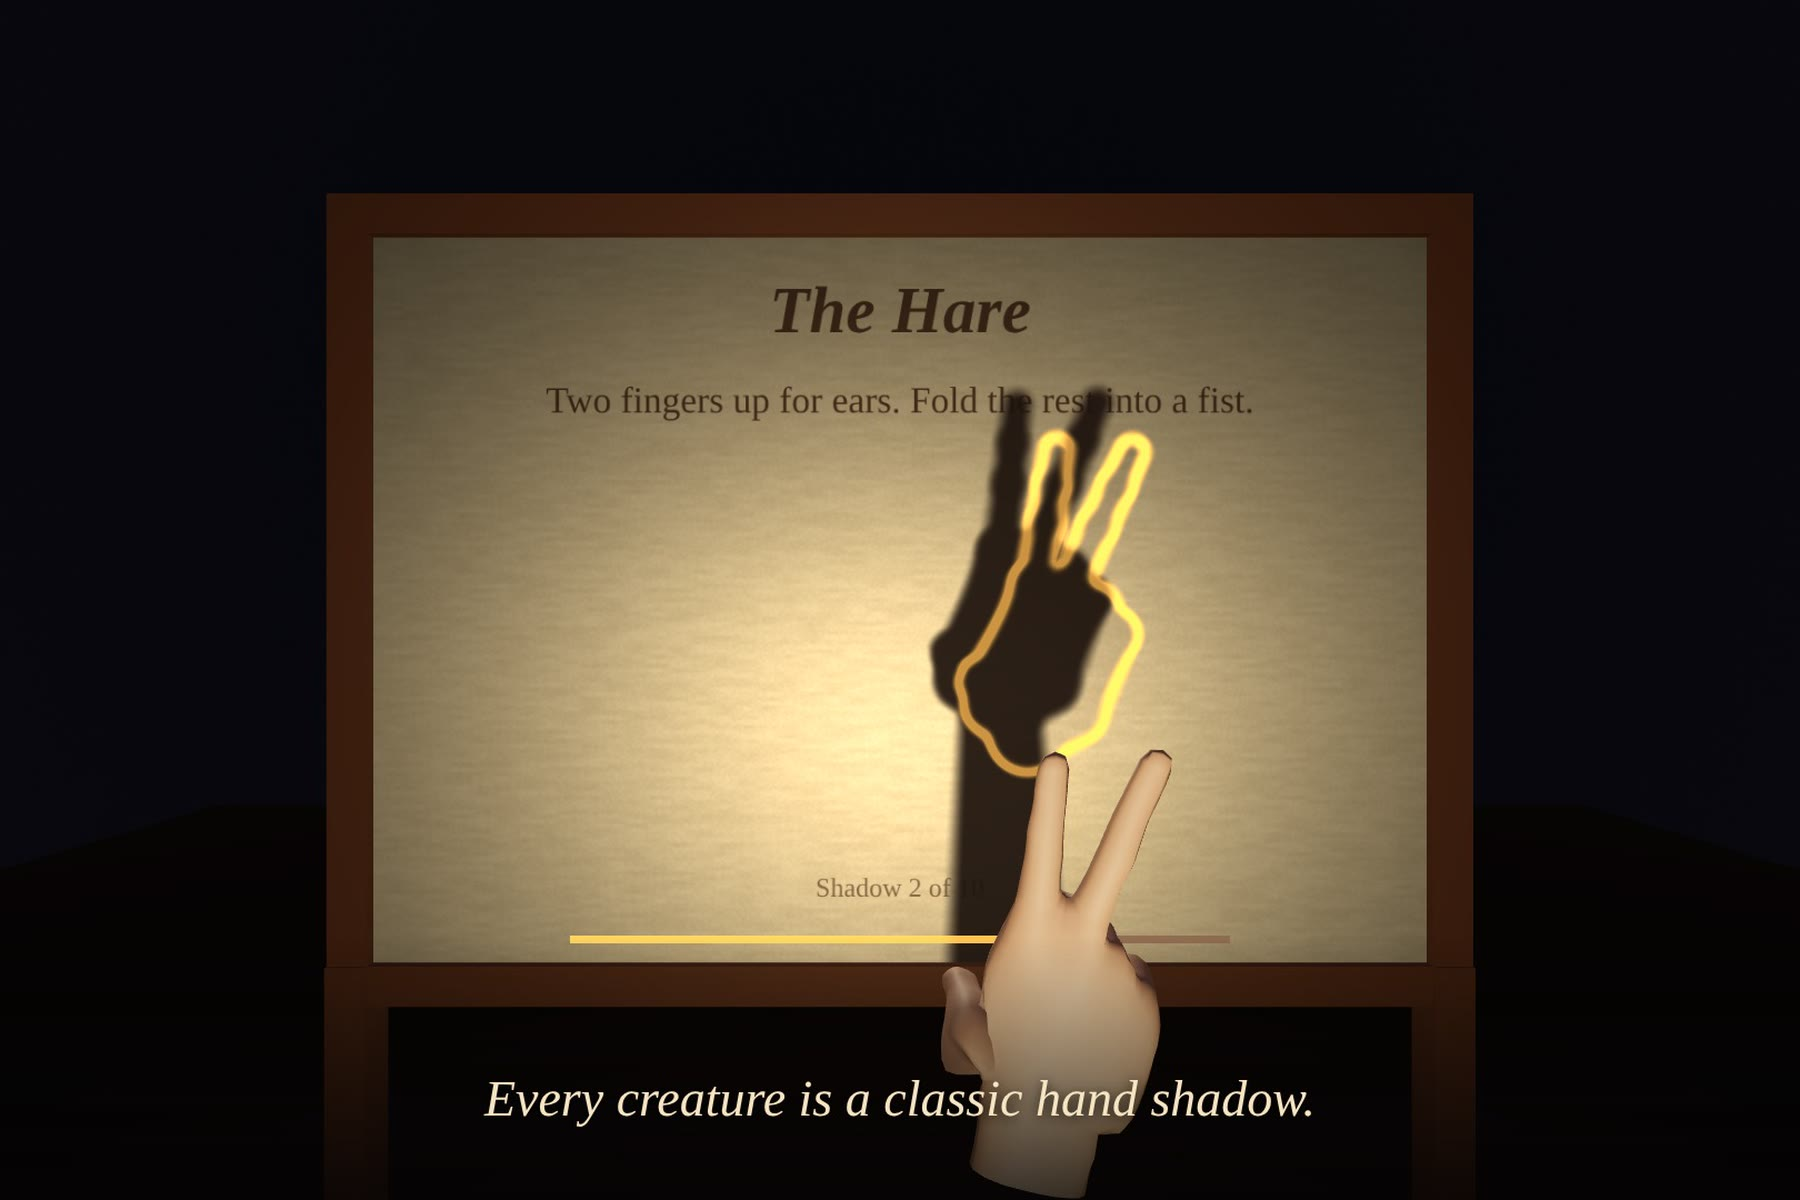
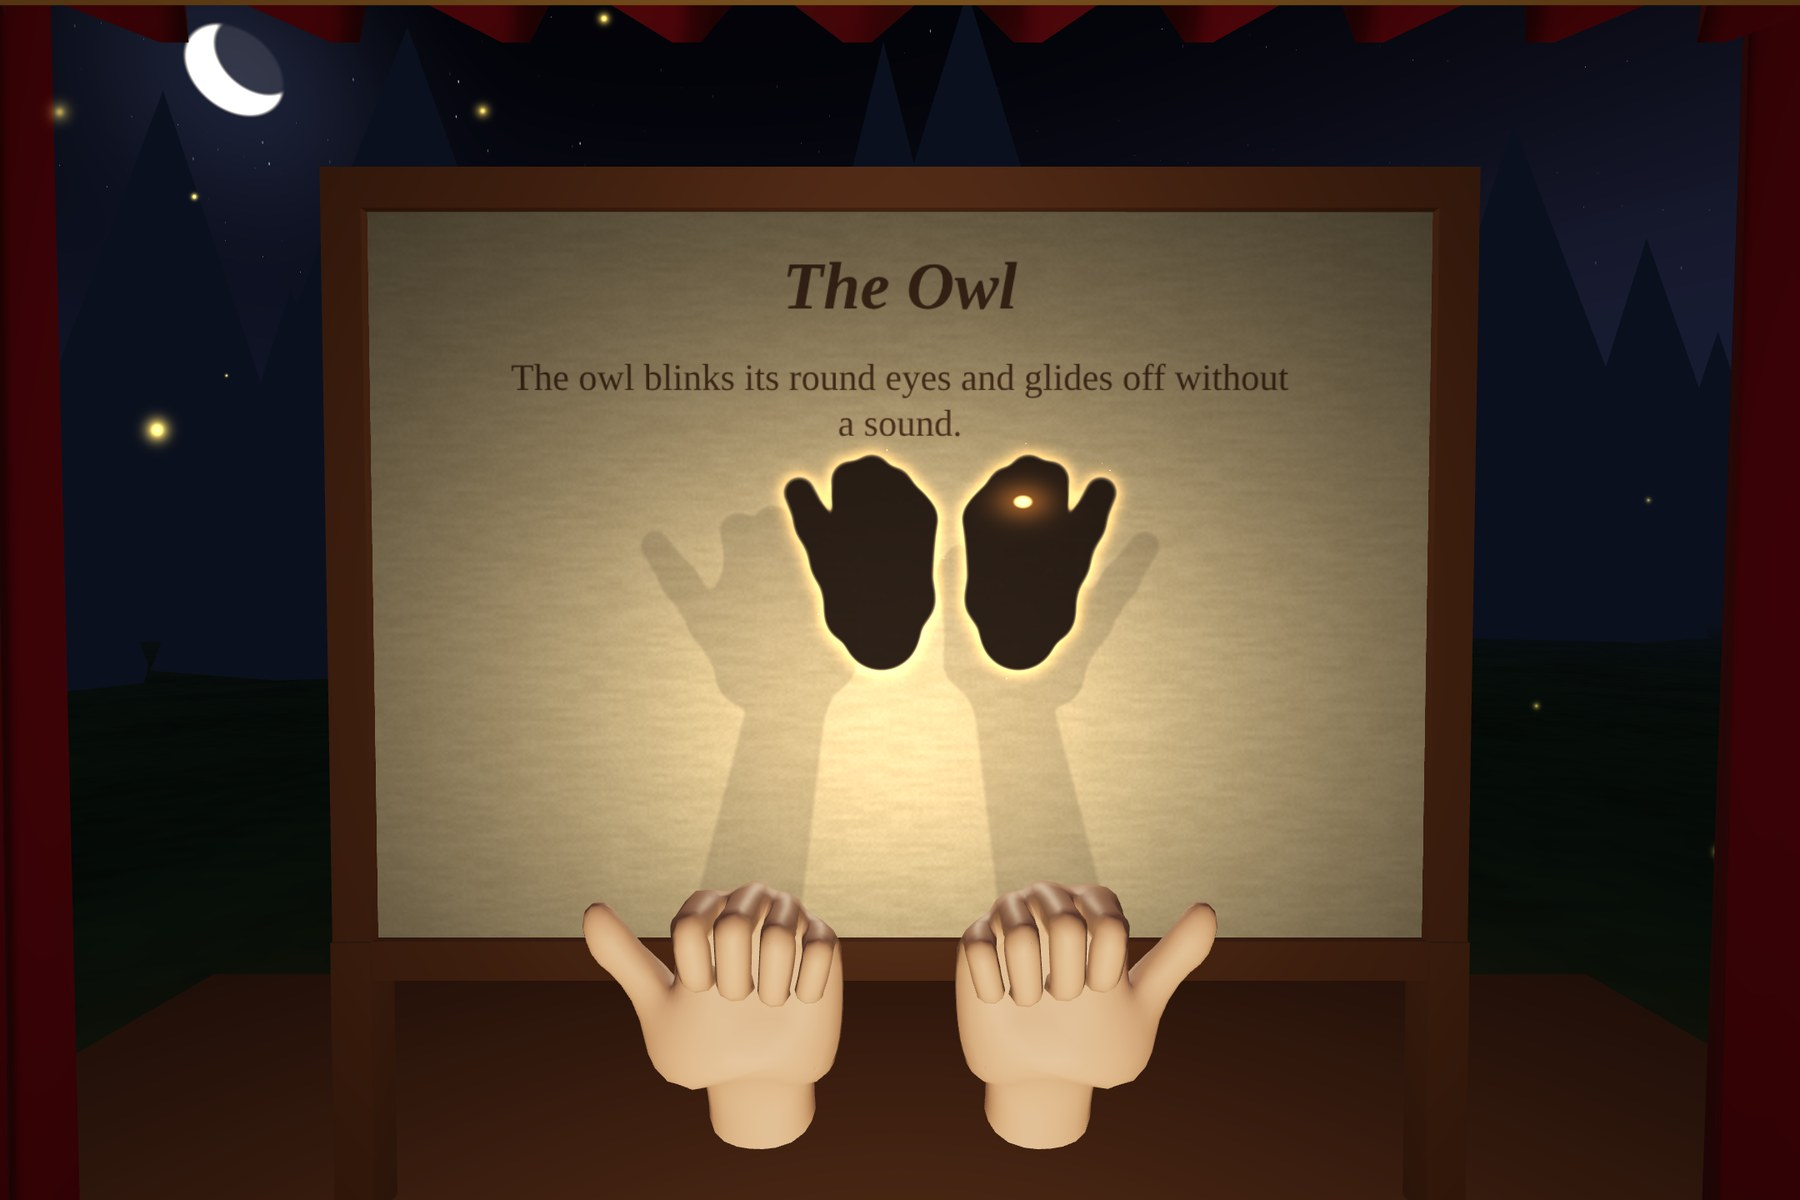
Store art from the game: covers, screenshots, Devpost images
- Art mode can ink the title on the paper and blanks the tray labels,
  so covers carry no text but the title.
- tools/store-art.ts stages scenes in the real game: five cover sizes
  framed for Meta's safe areas, and gameplay screenshots, retrying any
  frame caught blank after a resize.
- tools/try-poses.ts draws pose candidates to a contact sheet.
- New Devpost thumbnail and gallery images with the new look.

Claude-Session: https://claude.ai/code/session_01TxZr4PHdS5AtrrhRKnMLyY

diff --git a/tools/store-art.ts b/tools/store-art.ts
@@ -76,11 +76,16 @@ async function until(page: any, pred: (s: any) => boolean, max = 600, poses?: (t
 async function shot(page: any, name: string, w = 2560, h = 1440) {
   if (process.env.SMALL) { await page.screenshot({ path: `${outDir}/${name}-small.png` }); }
   await page.setViewportSize({ width: w, height: h });
-  await page.waitForTimeout(800);
-  await adv(page, 3);
-  await page.waitForTimeout(800);
-  await adv(page, 1);
-  await page.screenshot({ path: `${outDir}/${name}.png` });
+  for (let attempt = 0; attempt < 4; attempt++) {
+    await page.waitForTimeout(1500);
+    await adv(page, 3);
+    await page.waitForTimeout(1500);
+    await adv(page, 1);
+    const buf: Buffer = await page.screenshot({ path: `${outDir}/${name}.png`, timeout: 180000 });
+    // a black frame means the canvas was caught between resize and draw: try again
+    if (buf.length > 200000) break;
+    console.log('blank frame, retrying', name);
+  }
   await page.setViewportSize({ width: 960, height: 540 });
   console.log('saved', name);
 }
@@ -98,13 +103,16 @@ if (want('wake')) {
   await page.close();
 }
 
-// 2. stuck: the golden guide hand sits on the player's wrist (the crocodile)
-if (want('guide')) {
-  const page = await open({ level: 2, found: ids.slice(0, 2), puzzle: 0, battle: false });
+// 2. magic: the dog shape held at its comfortable angle, almost there, glowing
+if (want('magic')) {
+  const page = await open({ level: 0, found: [], puzzle: 0, battle: false });
   await page.evaluate(() => (window as any).__shadowfolk.press('next'));
-  const relaxed: HandPose[] = [{ hand: 'right', pos: [0.06, -0.2, -0.4], rot: [0, 0, -70], thumb: { out: 0.5 }, index: 0.2, middle: 0.25, ring: 0.3, pinky: 0.35 }];
-  await adv(page, 30 * 9, () => relaxed);
-  await shot(page, 'shot-2-guide');
+  // an open hand, fingers not yet spread: close to the starfish, glowing, not awake yet
+  const near: HandPose[] = [{ hand: 'right', pos: [0.02, -0.25, -0.42], rot: [0, 0, 12], thumb: { out: 0.5, opp: 0 }, index: { curl: 0.48, splay: 3 }, middle: { curl: 0.48 }, ring: { curl: 0.48, splay: -3 }, pinky: { curl: 0.48, splay: -6 } }];
+  await adv(page, 40, () => near);
+  const st = await state(page);
+  console.log('magic scene', st.state, st.score.toFixed(2));
+  await shot(page, 'shot-2-magic');
   await page.close();
 }
 
@@ -121,7 +129,7 @@ if (want('rain')) {
 if (want('flies')) {
   const page = await open({ level: 10, found: ids, puzzle: 1, battle: false });
   await page.evaluate(() => (window as any).__shadowfolk.press('next'));
-  await adv(page, 30 * 6.2, (t) => fliesPose(t));
+  await adv(page, 30 * 4.5, (t) => fliesPose(t));
   await shot(page, 'shot-4-fireflies');
   await page.close();
 }
@@ -150,31 +158,31 @@ if (want('battle')) {
   await page.close();
 }
 
-// cover backgrounds: a clean paper (no text), the hands making the bird, the wolf facing it
+// covers: the title inked on the paper (no other text), the hands making the bird, the Ink Wolf facing it
 if (want('cover')) {
   const sizes: [string, number, number, { pos: [number, number, number]; pitch: number; fov: number }][] = [
-    ['bg-landscape', 2560, 1440, { pos: [0, 1.32, 0.95], pitch: 1, fov: 50 }],
-    ['bg-hero', 3000, 900, { pos: [0, 1.36, 1.5], pitch: 2, fov: 34 }],
-    ['bg-square', 1440, 1440, { pos: [0, 1.36, 1.25], pitch: 2, fov: 62 }],
-    ['bg-portrait', 1008, 1440, { pos: [0, 1.38, 1.4], pitch: 3, fov: 70 }],
-    ['bg-mini', 1080, 360, { pos: [0, 1.3, 1.6], pitch: 1, fov: 30 }],
+    ['cover-landscape', 2560, 1440, { pos: [0, 1.2, 0.6], pitch: 0, fov: 50 }],
+    ['cover-hero', 3000, 900, { pos: [0, 1.2, 1.1], pitch: 0, fov: 34 }],
+    ['cover-square', 1440, 1440, { pos: [0, 1.2, 0.36], pitch: 0, fov: 62 }],
+    ['cover-portrait', 1008, 1440, { pos: [0, 1.2, 0.51], pitch: 0, fov: 70 }],
+    ['cover-mini', 1080, 360, { pos: [0, 1.2, 1.13], pitch: 0, fov: 30 }],
   ];
   const page = await open({ level: 10, found: ids, puzzle: 2, battle: false });
   await page.evaluate(() => (window as any).__shadowfolk.press('next'));
   await adv(page, 20);
-  const bird = shift(level('bird').hands, [-0.07, 0.03, 0.02]);
+  const bird = shift(level('bird').hands, [-0.15, 0.0, -0.03]);
   // hold a shape that is not a spell yet (the hands rise), then the bird
   await adv(page, 40, () => bird);
-  await page.evaluate(() => (window as any).__shadowfolk.art(true));
+  await page.evaluate(() => (window as any).__shadowfolk.art(true, undefined, 'Shadowfolk', 150));
   await adv(page, 4, () => bird);
   for (const [name, w, h, cam] of sizes) {
-    await page.evaluate((c: any) => (window as any).__shadowfolk.art(true, c), cam);
+    await page.evaluate((c: any) => (window as any).__shadowfolk.art(true, c, 'Shadowfolk', 150), cam);
     await page.setViewportSize({ width: w, height: h });
     await page.waitForTimeout(800);
     await adv(page, 3, () => bird);
     await page.waitForTimeout(800);
     await adv(page, 1, () => bird);
-    await page.screenshot({ path: `${outDir}/${name}.png` });
+    await page.screenshot({ path: `${outDir}/${name}.png`, timeout: 180000 });
     console.log('saved', name);
   }
   await page.close();

diff --git a/src/game/game-system.ts b/src/game/game-system.ts
@@ -65,7 +65,7 @@ interface DebugApi {
   /** Start the immersive session (used with the IWER emulator for recording). */
   enterXR(): void;
   /** Store art: hide the paper's text and meter, and place the desktop camera (meters, degrees). */
-  art(on: boolean, camera?: { pos: [number, number, number]; pitch: number; fov?: number }): void;
+  art(on: boolean, camera?: { pos: [number, number, number]; pitch: number; fov?: number }, title?: string, titleSize?: number): void;
   /** The poses of a story creature, by id, to test free play. */
   posesFor(id: string): HandPose[];
   /** Current target poses, shifted in position (meters) to test the matcher. */
@@ -766,7 +766,15 @@ export class GameSystem extends createSystem({}) {
       u.uMeter.value = 0;
       if (this.theater.inkTex.version !== this.artInkVersion) {
         const c = this.theater.ink;
-        c.getContext('2d')!.clearRect(0, 0, c.width, c.height);
+        const g = c.getContext('2d')!;
+        g.clearRect(0, 0, c.width, c.height);
+        if (this.artTitle) {
+          g.fillStyle = '#000';
+          g.textAlign = 'center';
+          g.textBaseline = 'alphabetic';
+          g.font = `italic 600 ${this.artTitleSize}px Georgia, serif`;
+          g.fillText(this.artTitle, 512, 40 + this.artTitleSize);
+        }
         this.theater.inkTex.needsUpdate = true;
         this.artInkVersion = this.theater.inkTex.version;
       }
@@ -774,6 +782,8 @@ export class GameSystem extends createSystem({}) {
   }
   private magic = 0;
   private artMode = false;
+  private artTitle = '';
+  private artTitleSize = 150;
   private artInkVersion = -1;
 
   /** Chapter three: step the puzzle with the full shadow (forearm included) as solid ground. */
@@ -1266,9 +1276,14 @@ export class GameSystem extends createSystem({}) {
         if (iwer && this.world.session) iwer.quaternion.set(Math.sin(a / 2), 0, 0, Math.cos(a / 2));
         else this.world.camera.rotation.set(a, 0, 0, 'YXZ');
       },
-      art: (on, camera) => {
+      art: (on, camera, title, titleSize) => {
         this.artMode = on;
         this.artInkVersion = -1;
+        this.artTitle = title ?? '';
+        this.artTitleSize = titleSize ?? 150;
+        // store art allows no text but the title: blank the tray labels too
+        if (on) this.theater.drawLabels({ book: '', gentle: '', next: '' });
+        else this.updateLabels();
         if (camera) {
           const cam = this.world.camera;
           cam.position.set(camera.pos[0], camera.pos[1], camera.pos[2]);
